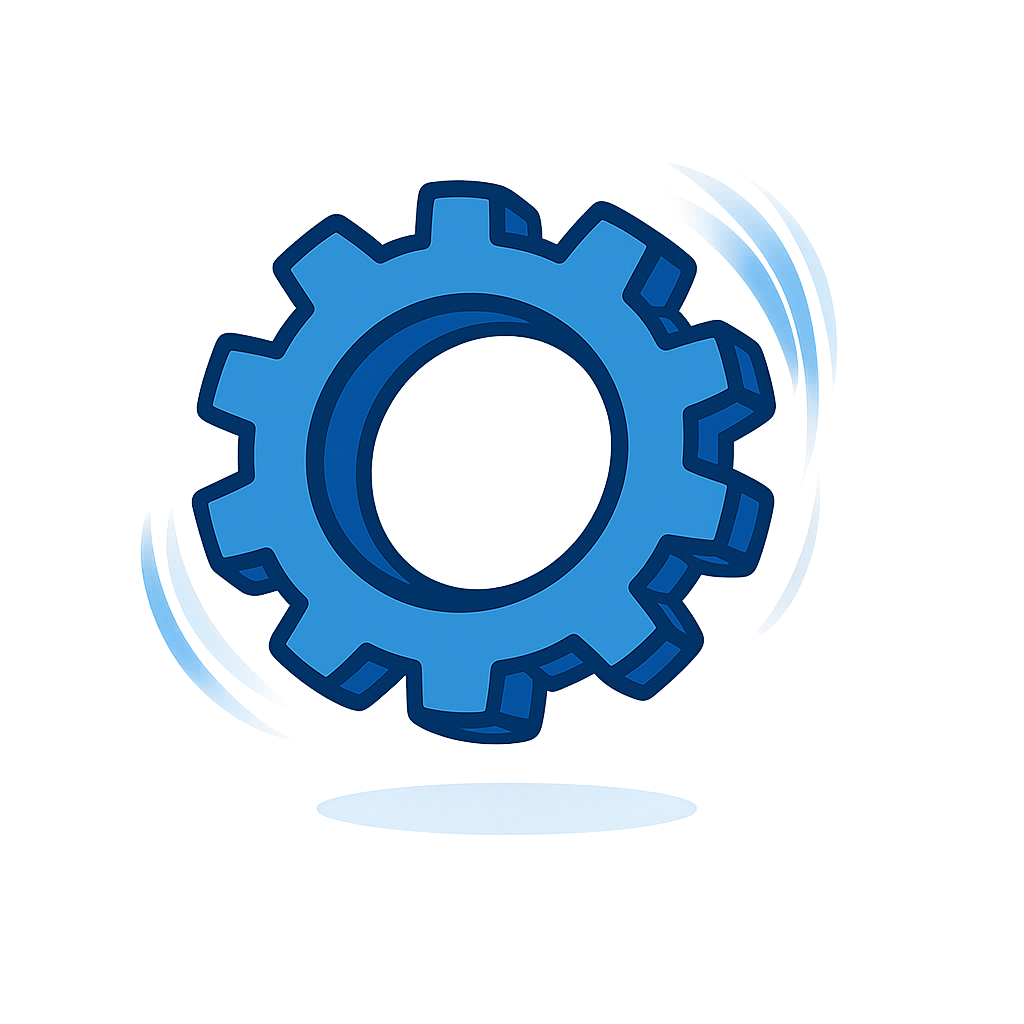
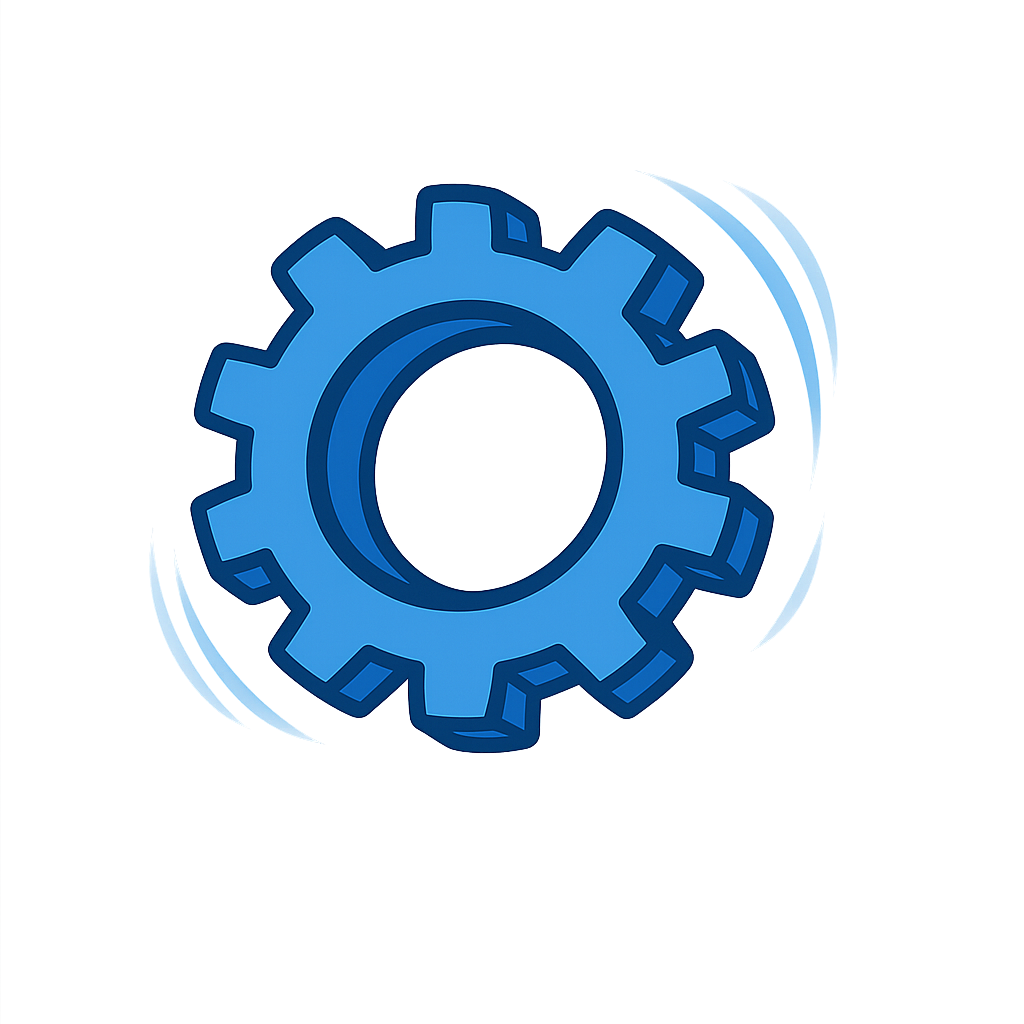
Sim

Changed region(s): [[0.125, 0.1562, 0.8438, 0.8125], [0.4375, 0.5625, 0.5312, 0.625], [0.25, 0.25, 0.3125, 0.3125]]

diff --git a/index.html b/index.html
@@ -43,18 +43,20 @@
             margin: 0 auto;
             padding: 20px 0;
         }
+        /* Fixed action buttons container */
         .fixed-action-buttons {
             position: fixed;
-            top: 20px;
-            right: 20px;
+            top: 10px; /* Adjusted for mobile */
+            right: 10px; /* Adjusted for mobile */
             z-index: 1000;
             display: flex;
-            flex-direction: column;
-            gap: 10px;
+            flex-direction: row; /* Buttons side-by-side on mobile */
+            gap: 8px; /* Slightly smaller gap */
         }
+        /* Hexagon buttons */
         .hexagon-btn {
-            width: 55px;
-            height: 63.5px;
+            width: 45px; /* Smaller size for mobile */
+            height: 52px; /* Adjusted height to maintain aspect ratio */
             background-color: var(--light-grey-btn);
             clip-path: polygon(50% 0%, 100% 25%, 100% 75%, 50% 100%, 0% 75%, 0% 25%);
             border: none;
@@ -69,9 +71,10 @@
             background-color: #cccccc;
             transform: scale(1.05);
         }
+        /* Icon sizes for buttons */
         .hexagon-btn svg, .hexagon-btn .icon-hamburger {
-            width: 28px;
-            height: 28px;
+            width: 24px; /* Smaller icon size for mobile */
+            height: 24px;
             fill: var(--icon-color-dark);
             color: var(--icon-color-dark);
             display: flex;
@@ -79,15 +82,22 @@
             justify-content: center;
             align-items: center;
         }
-        
         .icon-hamburger span {
             display: block;
-            width: 22px;
-            height: 3px;
+            width: 20px; /* Smaller hamburger lines */
+            height: 2px;
             background-color: var(--icon-color-dark);
             margin: 2px 0;
             transition: all 0.3s ease-in-out;
         }
+        
+        .icon-hamburger span:nth-child(1) {
+            transform-origin: top left;
+        }
+        .icon-hamburger span:nth-child(3) {
+            transform-origin: bottom left;
+        }
+
         #menu-toggle-btn.open .icon-hamburger span:nth-child(1) {
             transform: translateY(5px) rotate(45deg);
         }
@@ -109,18 +119,25 @@
         #back-to-top-btn svg {
             transform: rotate(-90deg); /* Flecha apuntando hacia arriba */
         }
+
+        /* Sticky Navigation Menu */
         .sticky-nav {
+            position: absolute; /* Positioned relative to .fixed-action-buttons */
+            top: calc(100% + 5px); /* Position below the buttons with a small gap */
+            right: 0; /* Aligned to the right edge of the fixed-action-buttons container */
             background-color: rgba(10, 37, 64, 0.95);
             backdrop-filter: blur(8px);
             border-radius: var(--border-radius);
             box-shadow: 0 4px 12px rgba(0, 0, 0, 0.2);
             overflow: hidden;
-            max-height: 0;
+            max-height: 0; /* Hidden by default */
             transition: max-height 0.5s ease-in-out, padding 0.5s ease-in-out;
             padding: 0 15px;
+            width: 180px; /* Default width for the menu on mobile */
         }
+
         .sticky-nav.open {
-            max-height: 500px;
+            max-height: 500px; /* Sufficient height to show all links */
             padding: 15px;
         }
         .sticky-nav ul { list-style: none; margin: 0; padding: 0; }
@@ -137,6 +154,42 @@
         }
         .sticky-nav a:hover { color: var(--main-blue); transform: translateX(3px); }
         .sticky-nav a.active-link { color: var(--main-blue); font-weight: bold; }
+
+        /* Desktop specific styles */
+        @media (min-width: 768px) {
+            .fixed-action-buttons {
+                top: 20px; /* Original top margin for desktop */
+                right: 20px; /* Original right margin for desktop */
+                flex-direction: column; /* Stack buttons vertically on desktop */
+                gap: 10px; /* Original gap */
+            }
+            .hexagon-btn {
+                width: 55px; /* Original size for desktop */
+                height: 63.5px;
+            }
+            .hexagon-btn svg, .hexagon-btn .icon-hamburger {
+                width: 28px; /* Original icon size */
+                height: 28px;
+            }
+            .icon-hamburger span {
+                width: 22px; /* Original hamburger lines */
+                height: 3px;
+                margin: 2px 0;
+            }
+            .sticky-nav {
+                position: relative; /* Relative to its parent (fixed-action-buttons) */
+                top: auto; /* Reset top positioning */
+                right: auto; /* Reset right positioning */
+                margin-top: 10px; /* Space from buttons */
+                align-self: flex-end; /* Align to the right of the column */
+                width: 180px; /* Consistent width for desktop */
+            }
+            .sticky-nav.open {
+                max-height: 500px;
+                padding: 15px;
+            }
+        }
+
         header {
             background-color: var(--header-bg);
             color: var(--text-light);
@@ -291,17 +344,12 @@
             box-shadow: 0 2px 4px rgba(0,0,0,0.1);
         }
 
-        /* Styling for the circular arrow icon */
-        .timeline-item .circular-arrow-icon {
-            width: 30px; /* Size of the SVG arrow */
-            height: 30px;
-            fill: var(--dark-blue); /* Color of the arrow */
-            animation: rotateArrow 4s linear infinite; /* Animation for rotation */
-        }
-
-        @keyframes rotateArrow {
-            from { transform: rotate(0deg); }
-            to { transform: rotate(360deg); }
+        /* Styling for the new image icon */
+        .timeline-icon-img {
+            width: 50px; /* Size of the image */
+            height: 50px;
+            object-fit: contain; /* Ensures the image fits within the bounds without distortion */
+            vertical-align: middle; /* Align image nicely */
         }
 
         /* Specific icons for Education sections */
@@ -647,7 +695,9 @@
     <header id="home">
         <div class="hexagon-bg" id="hexagon-container"></div>
         <div class="header-inner-content">
-            <img src="Img/Bild Mauricio Mora.jpg" alt="Foto de Perfil Mauricio Mora" class="profile-photo">
+            <!-- La ruta de la imagen de perfil ha sido actualizada a la proporcionada por el usuario. -->
+            <!-- Si esta imagen no se carga, asegúrate de que 'Img/Bild Mauricio Mora.jpg' sea una URL accesible públicamente. -->
+            <img src="Img/Bild Mauricio Mora.jpg" alt="Foto de Perfil Mauricio Mora" class="profile-photo" onerror="this.onerror=null; this.src='https://placehold.co/150x150/a3a3a3/ffffff?text=MM'; this.alt='Foto de perfil no disponible';">
             <h1>Ing. Mauricio Mora, MSc.</h1>
             <p class="title">Especialista en Automatización y Gestión de Proyectos</p>
             <p class="header-description">
@@ -691,7 +741,6 @@
                         <div class="skill-category">
                             <h3>Certificados y Otros</h3>
                             <div class="skill-item"><span class="skill-name">Permisos de Conducir: A y B</span></div>
-                            <div class="skill-item"><span class="skill-name">SCC Schulung (Safety Certificate for Contractors)</span></div>
                         </div>
                     </div>
                 </div>
@@ -702,9 +751,9 @@
                     <div class="timeline">
                         <div class="timeline-item">
                             <div class="timeline-icon">
-                                <svg class="circular-arrow-icon" xmlns="http://www.w3.org/2000/svg" viewBox="0 0 512 512">
-                                    <path d="M463.5 224H424V144c0-22.1-17.9-40-40-40H272c-22.1 0-40 17.9-40 40v80H144c-17.7 0-32 14.3-32 32s14.3 32 32 32h88v80c0 22.1 17.9 40 40 40h112c22.1 0 40-17.9 40-40v-80h39.5c17.7 0 32-14.3 32-32s-14.3-32-32-32zM256 0C114.6 0 0 114.6 0 256s114.6 256 256 256s256-114.6 256-256S397.4 0 256 0zm0 464c-114.7 0-208-93.3-208-208S141.3 48 256 48s208 93.3 208 208s-93.3 208-208 208z"/>
-                                </svg>
+                                <!-- La ruta de la imagen de engranaje ha sido actualizada a la proporcionada por el usuario. -->
+                                <!-- Si esta imagen no se carga, asegúrate de que 'sim/Engranaje.png' sea una URL accesible públicamente. -->
+                                <img src="sim/Engranaje.png" alt="Engranaje" class="timeline-icon-img" onerror="this.onerror=null; this.src='https://placehold.co/30x30/0056b3/ffffff?text=⚙'; this.alt='Engranaje';">
                             </div>
                             <h3>EMSR-Techniker <span class="arrow"></span></h3>
                             <p class="date">05.2024 - 11.2024</p>
@@ -720,9 +769,9 @@
                         </div>
                         <div class="timeline-item">
                             <div class="timeline-icon">
-                                <svg class="circular-arrow-icon" xmlns="http://www.w3.org/2000/svg" viewBox="0 0 512 512">
-                                    <path d="M463.5 224H424V144c0-22.1-17.9-40-40-40H272c-22.1 0-40 17.9-40 40v80H144c-17.7 0-32 14.3-32 32s14.3 32 32 32h88v80c0 22.1 17.9 40 40 40h112c22.1 0 40-17.9 40-40v-80h39.5c17.7 0 32-14.3 32-32s-14.3-32-32-32zM256 0C114.6 0 0 114.6 0 256s114.6 256 256 256s256-114.6 256-256S397.4 0 256 0zm0 464c-114.7 0-208-93.3-208-208S141.3 48 256 48s208 93.3 208 208s-93.3 208-208 208z"/>
-                                </svg>
+                                <!-- La ruta de la imagen de engranaje ha sido actualizada a la proporcionada por el usuario. -->
+                                <!-- Si esta imagen no se carga, asegúrate de que 'sim/Engranaje.png' sea una URL accesible públicamente. -->
+                                <img src="sim/Engranaje.png" alt="Engranaje" class="timeline-icon-img" onerror="this.onerror=null; this.src='https://placehold.co/30x30/0056b3/ffffff?text=⚙'; this.alt='Engranaje';">
                             </div>
                             <h3>Projektmanagement in Automatisierung y Softwareentwicklung <span class="arrow"></span></h3>
                             <p class="date">08.2021 - 03.2024</p>
@@ -738,9 +787,9 @@
                         </div>
                         <div class="timeline-item">
                             <div class="timeline-icon">
-                                <svg class="circular-arrow-icon" xmlns="http://www.w3.org/2000/svg" viewBox="0 0 512 512">
-                                    <path d="M463.5 224H424V144c0-22.1-17.9-40-40-40H272c-22.1 0-40 17.9-40 40v80H144c-17.7 0-32 14.3-32 32s14.3 32 32 32h88v80c0 22.1 17.9 40 40 40h112c22.1 0 40-17.9 40-40v-80h39.5c17.7 0 32-14.3 32-32s-14.3-32-32-32zM256 0C114.6 0 0 114.6 0 256s114.6 256 256 256s256-114.6 256-256S397.4 0 256 0zm0 464c-114.7 0-208-93.3-208-208S141.3 48 256 48s208 93.3 208 208s-93.3 208-208 208z"/>
-                                </svg>
+                                <!-- La ruta de la imagen de engranaje ha sido actualizada a la proporcionada por el usuario. -->
+                                <!-- Si esta imagen no se carga, asegúrate de que 'sim/Engranaje.png' sea una URL accesible públicamente. -->
+                                <img src="sim/Engranaje.png" alt="Engranaje" class="timeline-icon-img" onerror="this.onerror=null; this.src='https://placehold.co/30x30/0056b3/ffffff?text=⚙'; this.alt='Engranaje';">
                             </div>
                             <h3>Automatisierungstechniken y Projektleiter <span class="arrow"></span></h3>
                             <p class="date">06.2019 - 07.2021</p>
@@ -756,9 +805,9 @@
                         </div>
                         <div class="timeline-item">
                             <div class="timeline-icon">
-                                <svg class="circular-arrow-icon" xmlns="http://www.w3.org/2000/svg" viewBox="0 0 512 512">
-                                    <path d="M463.5 224H424V144c0-22.1-17.9-40-40-40H272c-22.1 0-40 17.9-40 40v80H144c-17.7 0-32 14.3-32 32s14.3 32 32 32h88v80c0 22.1 17.9 40 40 40h112c22.1 0 40-17.9 40-40v-80h39.5c17.7 0 32-14.3 32-32s-14.3-32-32-32zM256 0C114.6 0 0 114.6 0 256s114.6 256 256 256s256-114.6 256-256S397.4 0 256 0zm0 464c-114.7 0-208-93.3-208-208S141.3 48 256 48s208 93.3 208 208s-93.3 208-208 208z"/>
-                                </svg>
+                                <!-- La ruta de la imagen de engranaje ha sido actualizada a la proporcionada por el usuario. -->
+                                <!-- Si esta imagen no se carga, asegúrate de que 'sim/Engranaje.png' sea una URL accesible públicamente. -->
+                                <img src="sim/Engranaje.png" alt="Engranaje" class="timeline-icon-img" onerror="this.onerror=null; this.src='https://placehold.co/30x30/0056b3/ffffff?text=⚙'; this.alt='Engranaje';">
                             </div>
                             <h3>Promotionstätigkeiten <span class="arrow"></span></h3>
                             <p class="date">01.2015 - 05.2019</p>
@@ -768,9 +817,9 @@
                         </div>
                         <div class="timeline-item">
                             <div class="timeline-icon">
-                                <svg class="circular-arrow-icon" xmlns="http://www.w3.org/2000/svg" viewBox="0 0 512 512">
-                                    <path d="M463.5 224H424V144c0-22.1-17.9-40-40-40H272c-22.1 0-40 17.9-40 40v80H144c-17.7 0-32 14.3-32 32s14.3 32 32 32h88v80c0 22.1 17.9 40 40 40h112c22.1 0 40-17.9 40-40v-80h39.5c17.7 0 32-14.3 32-32s-14.3-32-32-32zM256 0C114.6 0 0 114.6 0 256s114.6 256 256 256s256-114.6 256-256S397.4 0 256 0zm0 464c-114.7 0-208-93.3-208-208S141.3 48 256 48s208 93.3 208 208s-93.3 208-208 208z"/>
-                                </svg>
+                                <!-- La ruta de la imagen de engranaje ha sido actualizada a la proporcionada por el usuario. -->
+                                <!-- Si esta imagen no se carga, asegúrate de que 'sim/Engranaje.png' sea una URL accesible públicamente. -->
+                                <img src="sim/Engranaje.png" alt="Engranaje" class="timeline-icon-img" onerror="this.onerror=null; this.src='https://placehold.co/30x30/0056b3/ffffff?text=⚙'; this.alt='Engranaje';">
                             </div>
                             <h3>Kälteanlagentechniker (Prácticas) <span class="arrow"></span></h3>
                             <p class="date">02.2019 - 02.2019</p>
@@ -780,9 +829,9 @@
                         </div>
                         <div class="timeline-item">
                             <div class="timeline-icon">
-                                <svg class="circular-arrow-icon" xmlns="http://www.w3.org/2000/svg" viewBox="0 0 512 512">
-                                    <path d="M463.5 224H424V144c0-22.1-17.9-40-40-40H272c-22.1 0-40 17.9-40 40v80H144c-17.7 0-32 14.3-32 32s14.3 32 32 32h88v80c0 22.1 17.9 40 40 40h112c22.1 0 40-17.9 40-40v-80h39.5c17.7 0 32-14.3 32-32s-14.3-32-32-32zM256 0C114.6 0 0 114.6 0 256s114.6 256 256 256s256-114.6 256-256S397.4 0 256 0zm0 464c-114.7 0-208-93.3-208-208S141.3 48 256 48s208 93.3 208 208s-93.3 208-208 208z"/>
-                                </svg>
+                                <!-- La ruta de la imagen de engranaje ha sido actualizada a la proporcionada por el usuario. -->
+                                <!-- Si esta imagen no se carga, asegúrate de que 'sim/Engranaje.png' sea una URL accesible públicamente. -->
+                                <img src="sim/Engranaje.png" alt="Engranaje" class="timeline-icon-img" onerror="this.onerror=null; this.src='https://placehold.co/30x30/0056b3/ffffff?text=⚙'; this.alt='Engranaje';">
                             </div>
                             <h3>Hilfsmitarbeiter con Logistik-Tätigkeiten <span class="arrow"></span></h3>
                             <p class="date">04.2016 - 01.2017</p>
@@ -792,9 +841,9 @@
                         </div>
                         <div class="timeline-item">
                             <div class="timeline-icon">
-                                <svg class="circular-arrow-icon" xmlns="http://www.w3.org/2000/svg" viewBox="0 0 512 512">
-                                    <path d="M463.5 224H424V144c0-22.1-17.9-40-40-40H272c-22.1 0-40 17.9-40 40v80H144c-17.7 0-32 14.3-32 32s14.3 32 32 32h88v80c0 22.1 17.9 40 40 40h112c22.1 0 40-17.9 40-40v-80h39.5c17.7 0 32-14.3 32-32s-14.3-32-32-32zM256 0C114.6 0 0 114.6 0 256s114.6 256 256 256s256-114.6 256-256S397.4 0 256 0zm0 464c-114.7 0-208-93.3-208-208S141.3 48 256 48s208 93.3 208 208s-93.3 208-208 208z"/>
-                                </svg>
+                                <!-- La ruta de la imagen de engranaje ha sido actualizada a la proporcionada por el usuario. -->
+                                <!-- Si esta imagen no se carga, asegúrate de que 'sim/Engranaje.png' sea una URL accesible públicamente. -->
+                                <img src="sim/Engranaje.png" alt="Engranaje" class="timeline-icon-img" onerror="this.onerror=null; this.src='https://placehold.co/30x30/0056b3/ffffff?text=⚙'; this.alt='Engranaje';">
                             </div>
                             <h3>Sales Assistent-Manager <span class="arrow"></span></h3>
                             <p class="date">04.2015 - 11.2015</p>
@@ -807,9 +856,9 @@
                         </div>
                         <div class="timeline-item">
                             <div class="timeline-icon">
-                                <svg class="circular-arrow-icon" xmlns="http://www.w3.org/2000/svg" viewBox="0 0 512 512">
-                                    <path d="M463.5 224H424V144c0-22.1-17.9-40-40-40H272c-22.1 0-40 17.9-40 40v80H144c-17.7 0-32 14.3-32 32s14.3 32 32 32h88v80c0 22.1 17.9 40 40 40h112c22.1 0 40-17.9 40-40v-80h39.5c17.7 0 32-14.3 32-32s-14.3-32-32-32zM256 0C114.6 0 0 114.6 0 256s114.6 256 256 256s256-114.6 256-256S397.4 0 256 0zm0 464c-114.7 0-208-93.3-208-208S141.3 48 256 48s208 93.3 208 208s-93.3 208-208 208z"/>
-                                </svg>
+                                <!-- La ruta de la imagen de engranaje ha sido actualizada a la proporcionada por el usuario. -->
+                                <!-- Si esta imagen no se carga, asegúrate de que 'sim/Engranaje.png' sea una URL accesible públicamente. -->
+                                <img src="sim/Engranaje.png" alt="Engranaje" class="timeline-icon-img" onerror="this.onerror=null; this.src='https://placehold.co/30x30/0056b3/ffffff?text=⚙'; this.alt='Engranaje';">
                             </div>
                             <h3>IT & Logistik Manager <span class="arrow"></span></h3>
                             <p class="date">2008 - 2010</p>
@@ -849,7 +898,7 @@
                                 </button>
                                 <p><strong>Masterarbeit:</strong></p>
                                 <p>
-                                    Mi tesis de maestría, "Empirische Bewertung der Vorteile von MUL (Maßeinheitenumwandlung und Lineal) bei la Umrechnung von Maßeinheiten: Ein Vergleich mit la traditionellen Methode", evaluó empíricamente los beneficios de un método alternativo (MUL) <span style="font-weight: bold;">desarrollado por mí</span> para la conversión de unidades de medida, en comparación con el enfoque tradicional. A través de un análisis detallado, la investigación arrojó luz sobre la eficacia de este nuevo método en el aprendizaje y la aplicación práctica, ofreciendo una perspectiva valiosa para la didáctica de las ciencias y la ingeniería.
+                                    Mi tesis de maestría, "Empirische Bewertung der Vorteile von MUL (Maßeinheitenumwandlung und Lineal) bei la Umrechnung von Maßeinheiten: Ein Vergleich con la tradiciónen Methode", evaluó empíricamente los beneficios de un método alternativo (MUL) <span style="font-weight: bold;">desarrollado por mí</span> para la conversión de unidades de medida, en comparación con el enfoque tradicional. A través de un análisis detallado, la investigación arrojó luz sobre la eficacia de este nuevo método en el aprendizaje y la aplicación práctica, ofreciendo una perspectiva valiosa para la didáctica de las ciencias y la ingeniería.
                                 </p>
                                 <button class="document-btn" data-pdf-path="pdf/20230824_Masterthesis_PTM_Mauricio_Mora.pdf" aria-label="Ver Masterarbeit">
                                     <svg viewBox="0 0 24 24" fill="currentColor">
@@ -1181,25 +1230,7 @@
         });
         // Set current year in footer
         document.getElementById('currentYear').textContent = new Date().getFullYear();
-        // Profile photo error handling
-        const profilePhoto = document.querySelector('.profile-photo');
-        profilePhoto.onerror = function() {
-            profilePhoto.alt = "MM";
-            const initialsDiv = document.createElement('div');
-            initialsDiv.textContent = 'MM';
-            initialsDiv.style.width = profilePhoto.width + 'px';
-            initialsDiv.style.height = profilePhoto.height + 'px';
-            initialsDiv.style.borderRadius = '50%';
-            initialsDiv.style.border = '5px solid var(--main-blue)';
-            initialsDiv.style.display = 'flex';
-            initialsDiv.style.alignItems = 'center';
-            initialsDiv.style.justifyContent = 'center';
-            initialsDiv.style.backgroundColor = 'var(--grey-background)';
-            initialsDiv.style.color = 'var(--dark-blue)';
-            initialsDiv.style.fontSize = Math.min(profilePhoto.width, profilePhoto.height) / 3 + 'px';
-            initialsDiv.style.margin = profilePhoto.style.margin;
-            profilePhoto.parentNode.replaceChild(initialsDiv, profilePhoto);
-        };
+        // Profile photo error handling (Removed JavaScript logic, now handled directly in HTML img tag for consistency)
         
         // Reveal on Scroll & Active Link
         // Ahora seleccionamos los nuevos divs .section-content-reveal para la animación
@@ -1290,9 +1321,9 @@
             const pdfPath = button.dataset.pdfPath;
             // Extract filename from path and format it
             let fileName = pdfPath.split('/').pop(); // Get the last part of the path
-            fileName = fileName.replace(/\.pdf$/i, ''); // Remove .pdf extension
-            fileName = fileName.replace(/_/g, ' '); // Replace underscores with spaces
-            fileName = fileName.replace(/-/g, ' '); // Replace hyphens with spaces
+            fileName = fileName.replace(/\.pdf$/i, '', fileName); // Remove .pdf extension
+            fileName = fileName.replace(/_/g, ' ', fileName); // Replace underscores with spaces
+            fileName = fileName.replace(/-/g, ' ', fileName); // Replace hyphens with spaces
             // Optional: Capitalize first letter of each word (simple approach)
             fileName = fileName.split(' ').map(word => word.charAt(0).toUpperCase() + word.slice(1)).join(' ');
 
